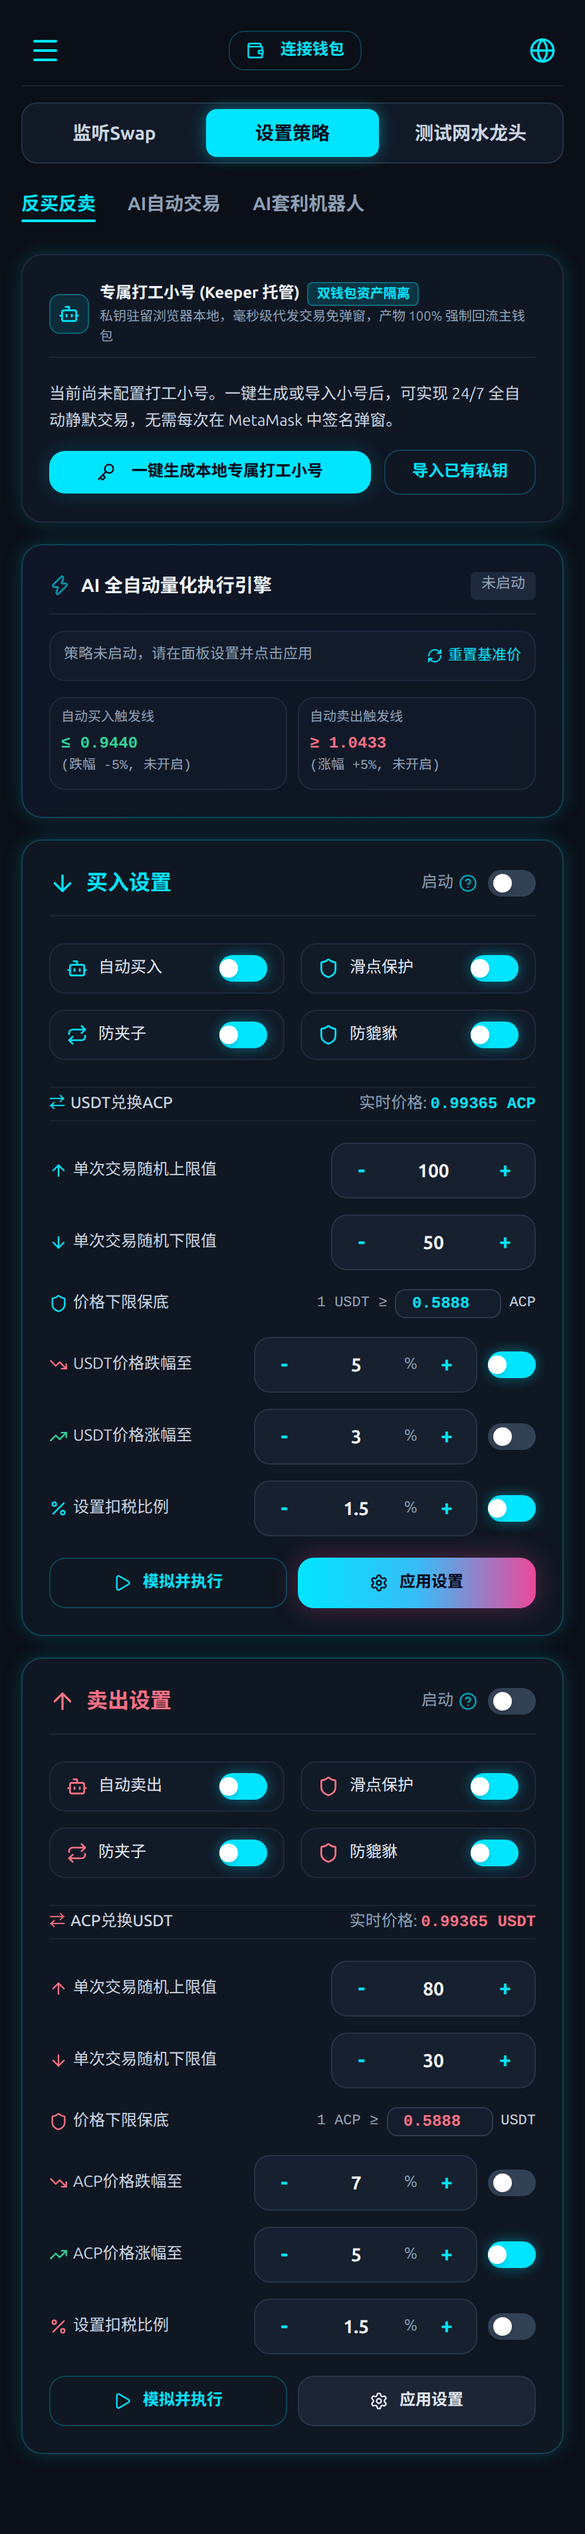
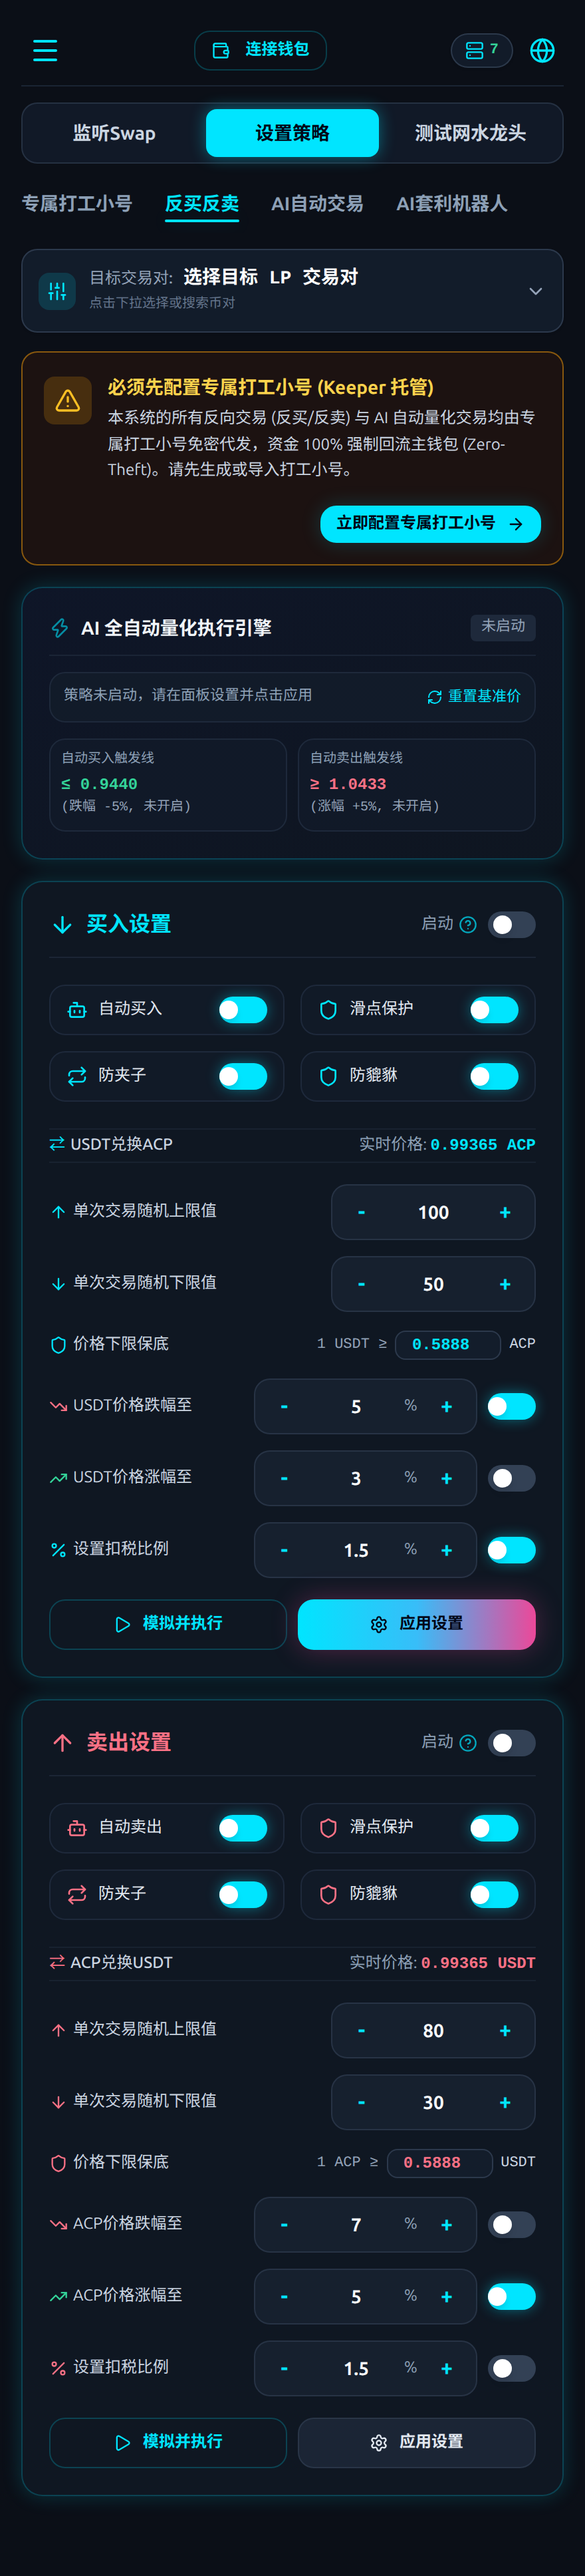
chore(deploy): update Cloudflare Pages project name to pk-trader-test

diff --git a/scripts/test-cf-deployment.ts b/scripts/test-cf-deployment.ts
@@ -21,7 +21,7 @@ async function main() {
   const targetUrl =
     process.env.DEPLOY_URL ||
     process.argv[2] ||
-    "https://uniswap-v2-trader.pages.dev";
+    "https://pk-trader-test.pages.dev";
 
   console.log("=================================================");
   console.log("     Cloudflare Deployment Verification Suite    ");

diff --git a/docs/AI/SESSION_STATE.md b/docs/AI/SESSION_STATE.md
@@ -54,3 +54,5 @@
 | **生产打包构建** | ✅ **0 错误 (`pnpm build`)** | 耗时 6.39s 完成生产打包，Chunk 体积良好 |
 | **Playwright 真实浏览器 E2E** | ✅ **13 项全部通过 (`pnpm test:metamask`)** | 验证监控大屏实时加载 30 笔历史交易流、标签筛选与刷新交互，真机快照已入库 |
 | **视觉快照交付** | ✅ **`docs/screenshots/03_swap_monitor_and_reserves.png`** | 确认交易流清晰展示历史与实时归档数据，不再空白 |
+| **Cloudflare 部署迁移** | ✅ **`https://pk-trader-test.pages.dev`** | 项目名称迁移至 `pk-trader-test`，E2E 自动化测试全绿通过 |
+
